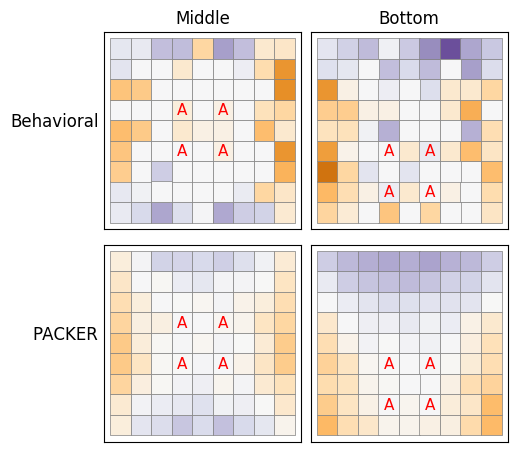
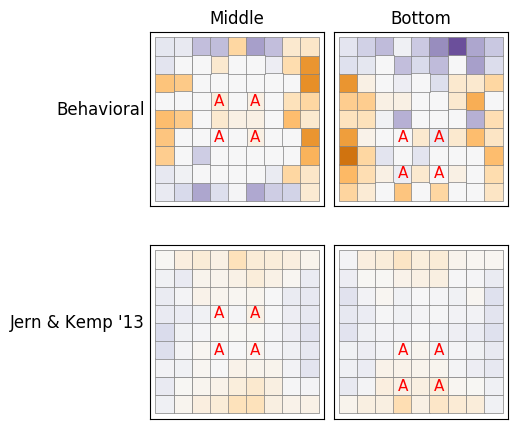
added weighting to all models

diff --git a/Experiments/middle-bottom/modeling/plot.range.x.location.py b/Experiments/middle-bottom/modeling/plot.range.x.location.py
@@ -6,7 +6,7 @@ import matplotlib.pyplot as plt
 
 # add modeling module
 sys.path.insert(0, "../../../Modules/") # generate-categories/Modules
-from models import Packer
+from models import Packer, CopyTweak, ConjugateJK13
 import utils
 
 # import data
@@ -30,14 +30,29 @@ observed.loc[pd.isnull(observed['var']),'var'] = 1.0
 
 
 # params for PACKER
-params = dict(
+model_param_pairs = [
+    [CopyTweak, dict(
+        specificity = 9.4486327043,
+        within_pref = 17.0316650379,
+        tolerance = 0.403108523886,
+        determinism = 7.07038770338,
+        )],
+    [Packer, dict(
         specificity = 0.562922970884,
         between = 1.76500997943,
         within = 1.55628620461,
         determinism = 1.99990124401,
-        )
+        )],
+    [ConjugateJK13, dict(
+        category_mean_bias = 0.0167065365661,
+        category_variance_bias = 1.00003245067,
+        domain_variance_bias = 0.163495499745,
+        determinism = 2.10276377982,
+        )],
+]
 
-nsamples = 40
+model_obj, params = model_param_pairs[2]
+nsamples = 20
 
 # get simulated data
 simulated = pd.DataFrame(dict(condition = [], stimulus = [], drange = []))
@@ -51,7 +66,7 @@ for i, row in stats.groupby('participant'):
 	params['wts'] = rs / float(np.sum(rs))
 	# params['wts'] = np.array([0.5, 0.5])
 
-	model = Packer([As], params)
+	model = model_obj([As], params)
 	for j in range(nsamples):	
 		nums = model.simulate_generation(stimuli, 1, nexemplars = 4)
 		model.forget_category(1)
@@ -68,7 +83,7 @@ simulated.loc[pd.isnull(simulated['var']),'var'] = 1.0
 simulated['size'] /= nsamples
 
 
-scatter_settings = dict(s = 220, alpha = 1.0, marker = 's', 
+scatter_settings = dict(s = 185, alpha = 1.0, marker = 's', 
 			edgecolors = 'gray', linewidth = 0.5, cmap = 'PuOr',
 			vmin = -2, vmax = 2)
 
@@ -117,7 +132,7 @@ for i in range(2):
 				if i== 0:
 					h.set_ylabel('Behavioral', rotation = 0, ha = 'right', **fontsettings)
 				if i == 1:
-					h.set_ylabel('PACKER', rotation = 0, ha = 'right', **fontsettings)
+					h.set_ylabel(model_obj.model, rotation = 0, ha = 'right', **fontsettings)
 
 		if i==0:
 			h.set_title(j, **fontsettings)

diff --git a/Modules/models/ConjugateJK13.py b/Modules/models/ConjugateJK13.py
@@ -5,9 +5,7 @@ from scipy.stats import multivariate_normal
 import utils
 from Model import Model
 
-def jitterize(x, sd = 1e-10):
-	# return x + np.random.normal(x.shape, scale = sd)
-	return x + 1e-10
+
 class ConjugateJK13(Model):
 	"""
 	A conjugate version of the Jern & Kemp (2013) heirarchical sampling
@@ -33,12 +31,11 @@ class ConjugateJK13(Model):
 		# standard update procedure
 		super(ConjugateJK13, self)._update_()
 
-		# set priors
+		# set prior mean.
 		self.category_prior_mean = np.zeros(self.nfeatures)
-		self.prior_variance = np.eye(self.nfeatures) * self.domain_variance_bias
 
 		# infer domain Sigma
-		self.Domain = self.prior_variance
+		self.Domain = np.array(self.prior_variance, copy=True)
 		for y in range(self.ncategories):
 			if self.nexemplars[y] < 2: continue
 			C = np.cov(self.categories[y], rowvar = False)
@@ -47,20 +44,23 @@ class ConjugateJK13(Model):
 
 	def _param_handler_(self):
 		super(ConjugateJK13, self)._param_handler_()
-
-		# correct ranges
 		if self.category_mean_bias <= 0: self.category_mean_bias = 1e-10
 		if self.category_variance_bias <= self.nfeatures - 1.0: 
 			self.category_variance_bias = self.nfeatures + 1e-10
 		if self.domain_variance_bias <= 0: self.domain_variance_bias = 1e-10
 		if self.determinism <= 0: self.determinism = 1e-10
 
-		# reset param dict
-		for k in self.params.keys():
-			self.params[k] = getattr(self, k)
 
-
-
+	def _wts_handler_(self):
+		"""
+			Converts wts into a covaraince matrix.
+			Weights are implemented as differences in the assumed [prior]
+			Domain covariance.
+		"""
+		super(ConjugateJK13, self)._wts_handler_()
+		self.prior_variance = np.eye(self.nfeatures) * self.nfeatures
+		inds = np.diag_indices(self.nfeatures)
+		self.prior_variance[inds] *= self.wts
 
 	def get_generation_ps(self, stimuli, category):
 		target_is_populated = any(self.assignments == category)

diff --git a/Modules/models/Model.py b/Modules/models/Model.py
@@ -43,19 +43,18 @@ class Model(object):
 
 		# setup functions
 		self._param_handler_()
+		self._wts_handler_()
+		self._reset_param_dict_()
 		self._update_()
 
 
 	def __str__(self):
 			S = self.model + ' Model. Current state:' 
-
 			for k in self.parameter_names:
 				S += '\n\t' + k + ' = ' + str(getattr(self, k))
-
 			for j in range(self.ncategories):
 				S += '\n\t' + 'Category ' +  str(j) + ': ' 
 				S += str(self.nexemplars[j]) + ' examples.'
-
 			return S + '\n'
 
 
@@ -68,23 +67,44 @@ class Model(object):
 		Models must add custom logic to ensure values lie within 
 		the allowed range.
 		"""
-
 		for k in self.parameter_names:
-			
 			if k not in self.params.keys():
 				raise Exception("There is no '" + k + "' parameter!!!")
-			
 			else:
 				setattr(self, k, self.params[k])
+
+	def _wts_handler_(self):
+		"""
+			Sets feature weight parameters for models.
+			Raises exception of wts is not the right size.
+		"""
+
+		if 'wts' not in self.params.keys():
+			self.wts = np.ones(self.nfeatures) / self.nfeatures
+			return
+
+		if len(self.params['wts']) != self.nfeatures:
+			raise Exception("Invalid wts parameter!")
+
+		wts = np.array(self.params['wts'])
+		self.wts = wts / float(np.sum(wts))
+		self.params['wts'] = self.wts
+
+
+	def _reset_param_dict_(self):
+		"""
+			Resets self.params given updated values.
+		"""
+		for k in self.params.keys():
+			self.params[k] = getattr(self, k)
 
 
 	def _params_to_dict_(self, params):
 		"""
 		Convert list parameters to dict, assuming order set by
-		self.parameter_names
+		self.parameter_names. Raises exception if there are not 
+		enough params.
 		"""
-
-		# make sure all parameters are there.
 		if len(params) != len(self.parameter_names):
 			S = 'Not enough (or too many) parameters!\nRequired:'
 			S += ''.join(['\n\t' + i  for i in self.parameter_names])

diff --git a/Modules/models/Packer.py b/Modules/models/Packer.py
@@ -19,26 +19,10 @@ class Packer(Model):
 
 	def _param_handler_(self):
 		super(Packer, self)._param_handler_()
-
-		# correct ranges
 		if self.specificity <= 0: self.specificity = 1e-10
 		if self.between <= 0: self.between = 1e-10
 		if self.within <= 0: self.within = 1e-10
 		if self.determinism <= 0: self.determinism = 1e-10
-
-		# make wts if needed
-		if 'wts' not in self.params.keys():
-			self.wts = np.ones(self.nfeatures) / self.nfeatures
-		else:
-			self.wts = self.params['wts']
-			if sum(self.wts) > 1:
-				self.wts = self.wts / np.sum(self.wts)
-				self.params['wts'] = self.wts
-
-		# reset param dict
-		for k in self.params.keys():
-			self.params[k] = getattr(self, k)
-
 
 
 	def _get_ss(self, candidates, class_items, contribution_param):

diff --git a/Modules/models/CopyTweak.py b/Modules/models/CopyTweak.py
@@ -19,25 +19,10 @@ class CopyTweak(Model):
 
 	def _param_handler_(self):
 		super(CopyTweak, self)._param_handler_()
-
-		# correct ranges
 		if self.specificity <= 0: self.specificity = 1e-10
 		if self.tolerance <= 0: self.tolerance = 1e-10
 		if self.tolerance > 1.0: self.tolerance = 1.0
 		if self.determinism <= 0: self.determinism = 1e-10
-
-		# make wts if needed
-		if 'wts' not in self.params.keys():
-			self.wts = np.ones(self.nfeatures) / self.nfeatures
-		else:
-			self.wts = self.params['wts']
-			if sum(self.wts) > 1:
-				self.wts = self.wts / np.sum(self.wts)
-				self.params['wts'] = self.wts
-
-		# reset param dict
-		for k in self.params.keys():
-			self.params[k] = getattr(self, k)
 
 	def get_generation_ps(self, stimuli, category):
 
